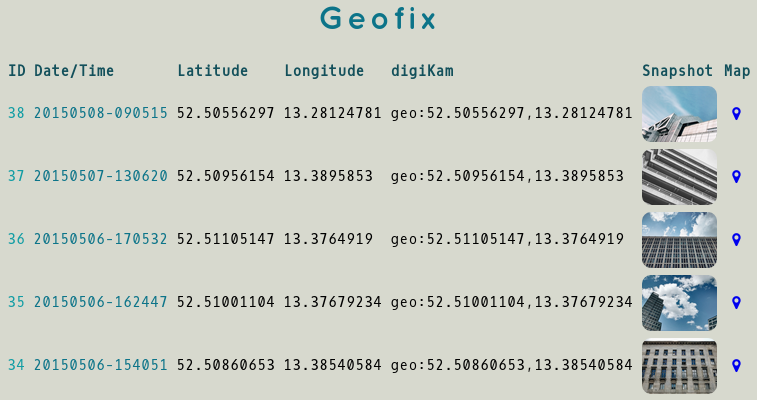
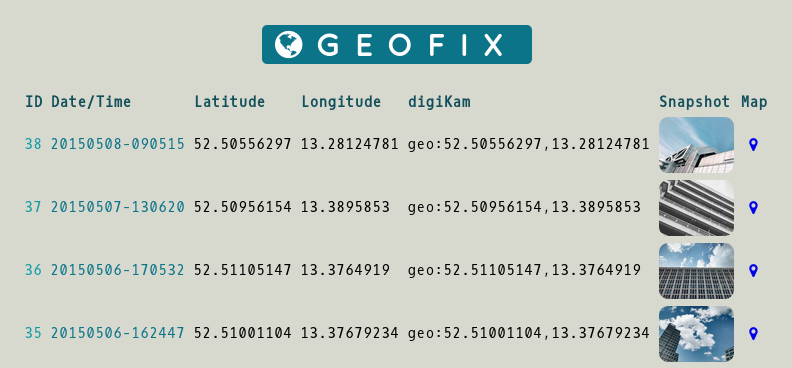
dn2820fykh-kubuntu :monkey:

Changed region(s): [[0.0, 0.1495, 1.0, 0.9864], [0.2431, 0.0, 0.6988, 0.2092], [0.0, 0.1495, 0.1519, 0.2092]]

diff --git a/geofix-web/static/styles.css b/geofix-web/static/styles.css
@@ -12,8 +12,15 @@ p {
     font: 15px 'Oxygen Mono';
     }
 h1 {
-    font-family: 'Quicksand', sans-serif; font-weight: 700; letter-spacing: 3px;
-    color: #0C7489;
+    margin: 0px auto;
+    margin-top: 25px;
+    margin-bottom: 25px;
+    text-align: center;
+    border-radius: 5px;
+    background-color: #0C7489;
+    width: 270px;
+    font-family: 'Quicksand', sans-serif; font-weight: 700; letter-spacing: 13px;
+    color: white;
 }
 table {
     font: 15px 'Oxygen Mono';
